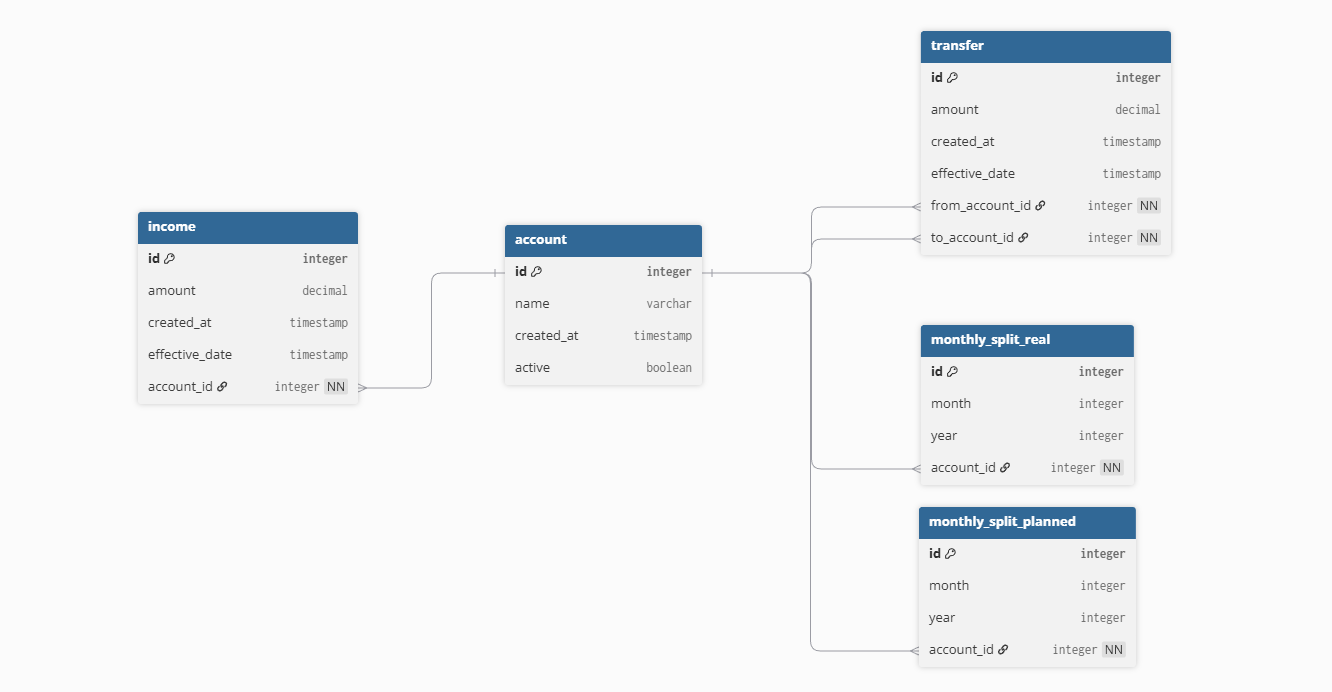
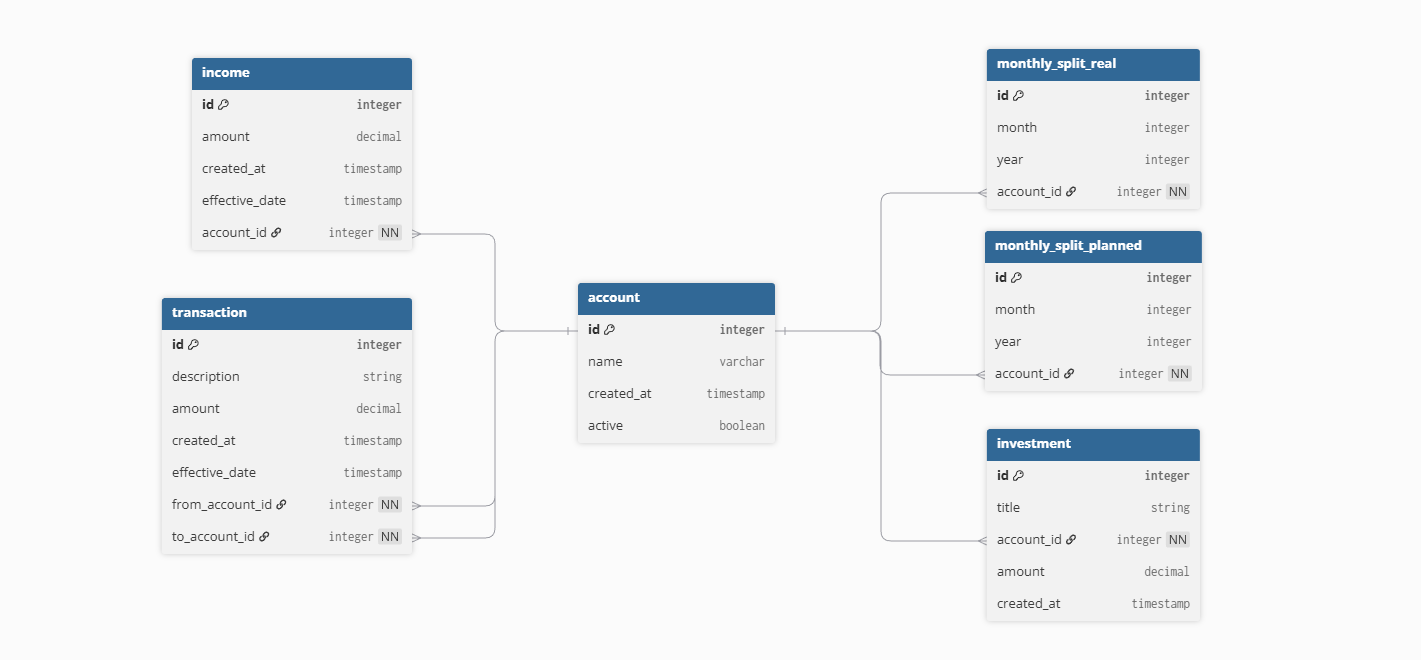
Add features section in Readme

diff --git a/README.md b/README.md
@@ -13,6 +13,17 @@ ERD (Entity Relationship Diagram): https://dbdiagram.io/d/6988d001bd82f5fce207a5
 
 # Features
 
+### Main Features
+- Create
+  - Accounts
+  - Incomes to these accounts
+  - Transactions between accounts
+  - Monthly Splits across accounts (The splits planned at the beginning of the month)
+  - Investments in different products in these accounts
+- View
+  - Current amount in each account
+  - Monthly splits, planned and real
+  - Performance of these investments
 
 # Setup
 
